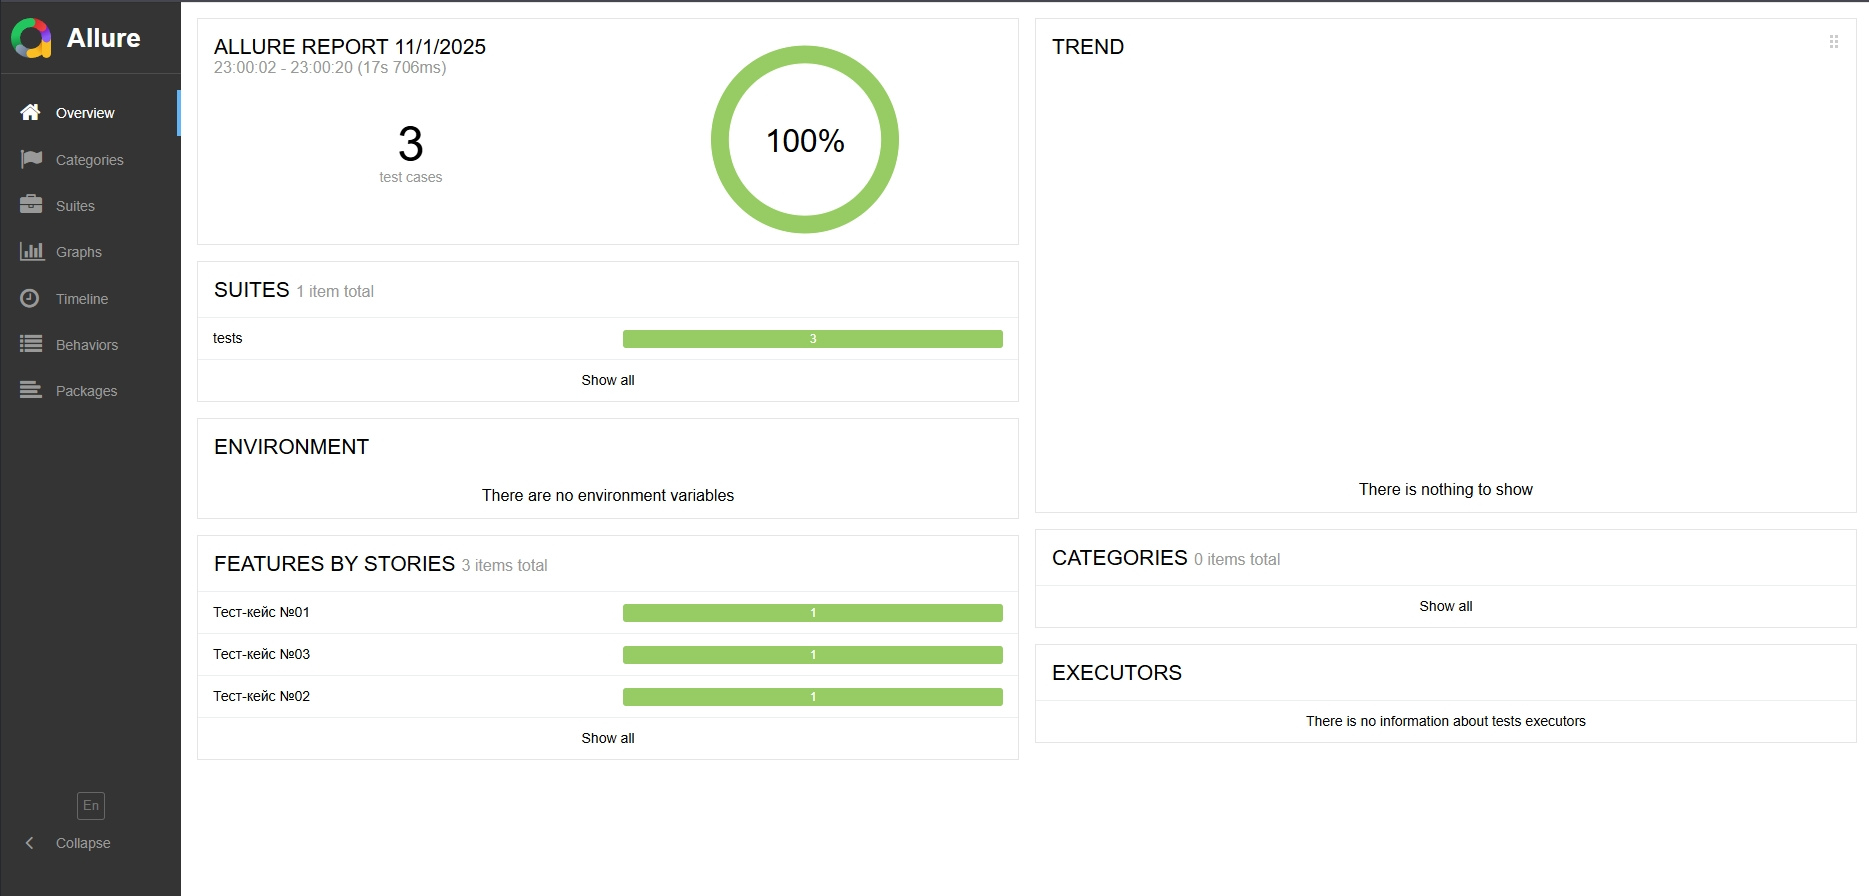
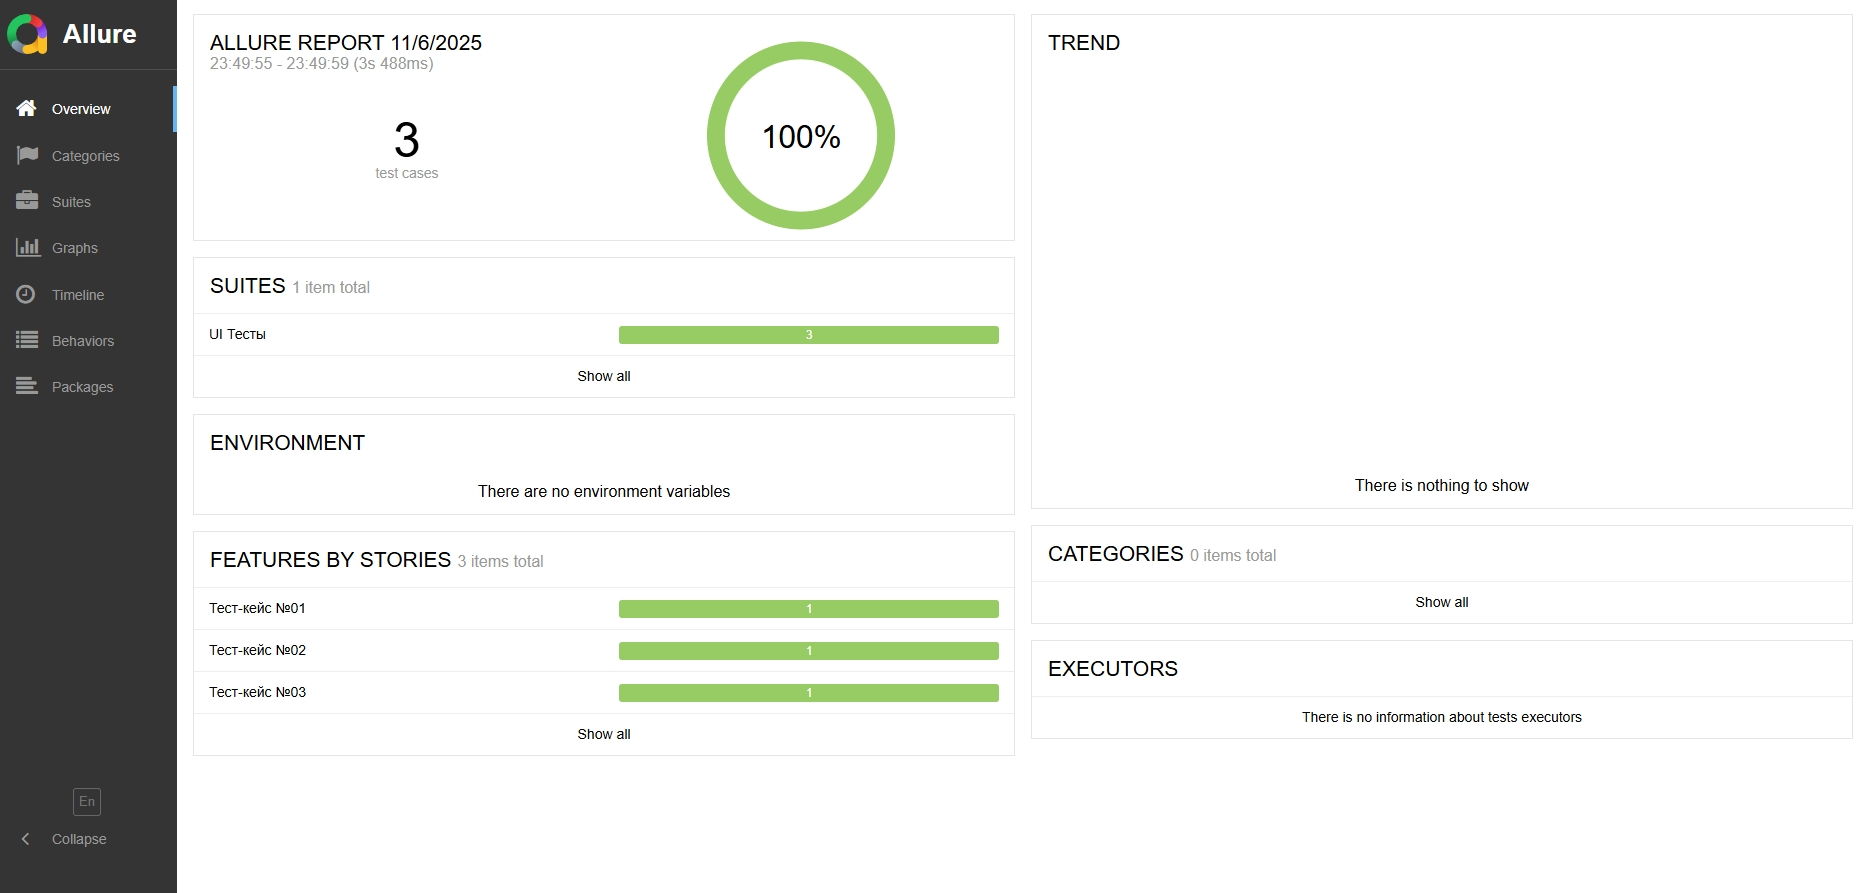
Update screenshots and README.md with this changes

diff --git a/README.md b/README.md
@@ -192,5 +192,3 @@ pip install -r requirements.txt
 ![Allure Report Part 2](screenshots/allure_report2.jpg)
 
 ![Allure Report Part 3](screenshots/allure_report3.jpg)
-
-![Allure Report Part 4](screenshots/allure_report4.jpg)
